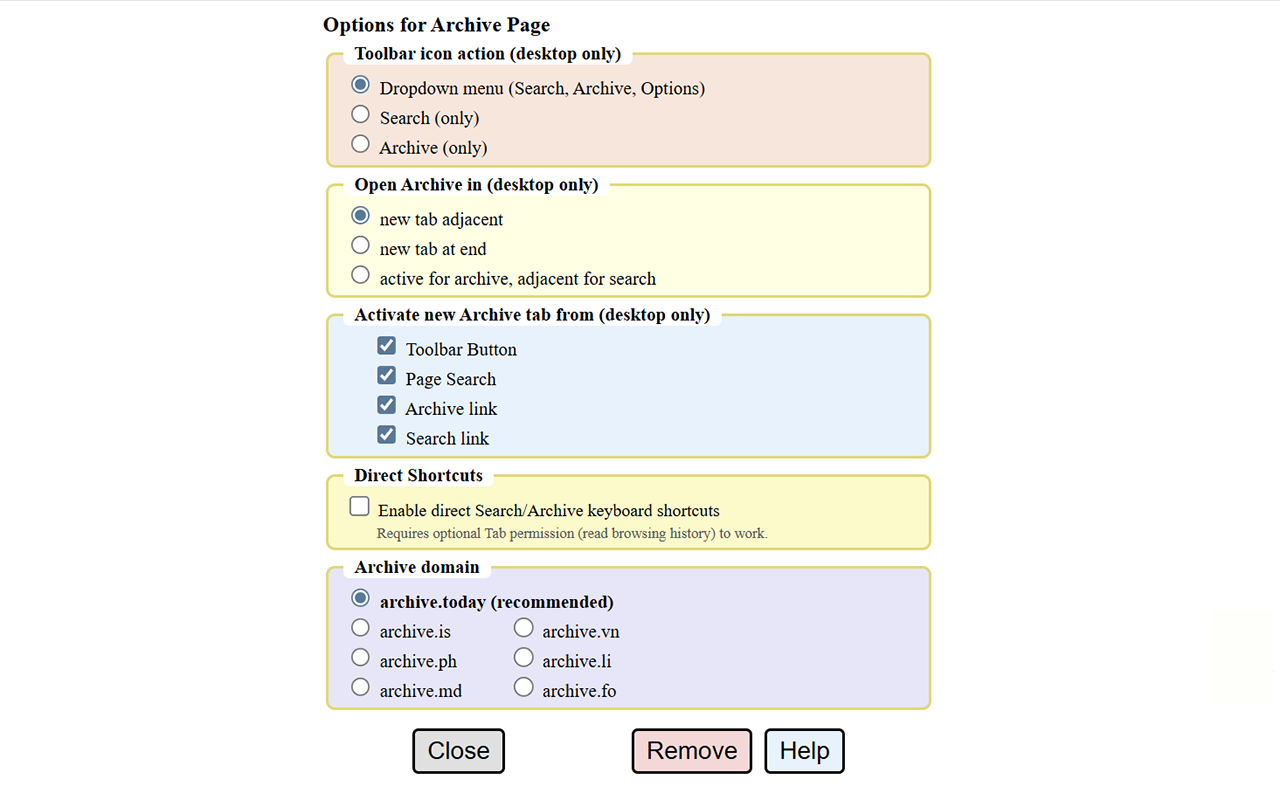
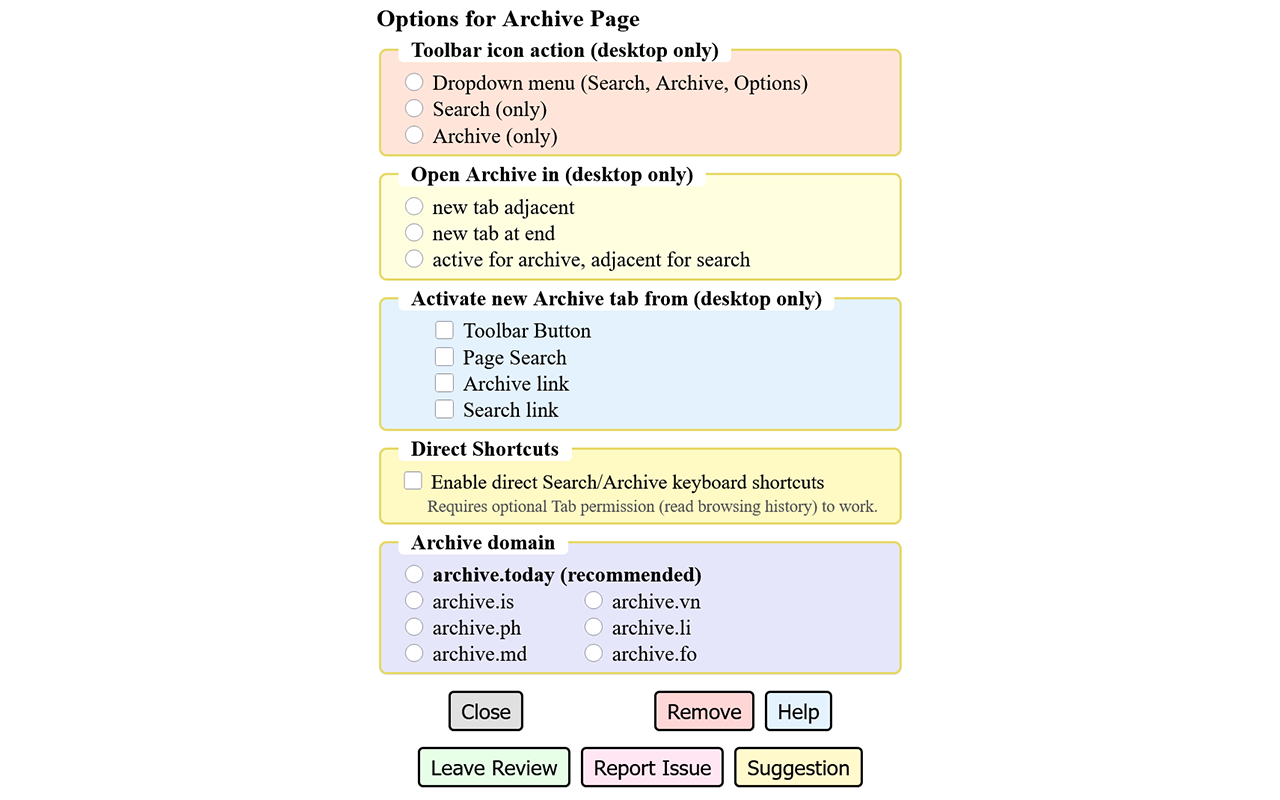
v1.6.3
What's New in 1.6.3:
* Fix rare menu race condition.
* Improve Options screen.

Changed region(s): [[0.25, 0.0, 0.75, 1.0]]

diff --git a/Chrome/options.html b/Chrome/options.html
@@ -15,6 +15,10 @@
             --bg-remove: #FFD6D6;
             --border-fieldset: #e6d96a;
             --border-button: #000;
+
+            --soft-green: #e6ffe6;
+            --soft-pink: #ffe6f2;
+            --soft-yellow: #fff9cc;
         }
 
         body {
@@ -121,6 +125,29 @@
             margin: 0 4px;
         }
 
+        #bReview {
+            background-color: var(--soft-green);
+        }
+
+        #bIssue {
+            background-color: var(--soft-pink);
+        }
+
+        #bSuggest {
+            background-color: var(--soft-yellow);
+        }
+
+        #bottomRow {
+            width: 342px;
+            margin: 12px auto 0;
+            gap: 8px;
+            flex-wrap: nowrap;
+        }
+
+        #feedbackRow {
+            width: 100%;
+        }
+
         @media (max-width: 600px) {
             body {
                 font-size: 0.95em;
@@ -196,11 +223,19 @@
             </div>
         </fieldset>
 
-        <div class="responsive-flex">
-            <button id="bClose" type="button">Close</button> <span id="status">&nbsp;</span>
+        <div class="responsive-flex" id="bottomRow">
+            <button id="bClose" type="button">Close</button>
+            <span id="status">&nbsp;</span>
             <button id="bRemove" type="button">Remove</button>
-            <span style="display: inline-block; width: 8px;"></span>
             <button id="bHelp" type="button">Help</button>
+        </div>
+
+        <div class="responsive-flex" id="feedbackRow">
+            <button id="bReview" type="button">Leave Review</button>
+            <span style="display: inline-block; width: 8px;"></span>
+            <button id="bIssue" type="button">Report Issue</button>
+            <span style="display: inline-block; width: 8px;"></span>
+            <button id="bSuggest" type="button">Suggestion</button>
         </div>
     </div>
     <script src="options.js"></script>

diff --git a/Chrome/dropdown.js b/Chrome/dropdown.js
@@ -4,22 +4,15 @@
     © 2026 John Navas, All Rights Reserved
 */
 
-document.addEventListener('DOMContentLoaded', () => {
-    // Send Search request to service worker
-    document.getElementById('mSearch').addEventListener('click', () => {
-        chrome.runtime.sendMessage({ action: "execSearch" });
-        window.close();
-    });
+document.getElementById('mSearch').addEventListener('click', () => {
+    chrome.runtime.sendMessage({ action: "execSearch" }, () => window.close());
+});
 
-    // Send Archive request to service worker
-    document.getElementById('mArchive').addEventListener('click', () => {
-        chrome.runtime.sendMessage({ action: "execArchive" });
-        window.close();
-    });
+document.getElementById('mArchive').addEventListener('click', () => {
+    chrome.runtime.sendMessage({ action: "execArchive" }, () => window.close());
+});
 
-    // Open the Options page directly
-    document.getElementById('mOptions').addEventListener('click', () => {
-        chrome.runtime.openOptionsPage();
-        window.close();
-    });
+document.getElementById('mOptions').addEventListener('click', () => {
+    chrome.runtime.openOptionsPage();
+    window.close();
 });

diff --git a/Chrome/service_worker.js b/Chrome/service_worker.js
@@ -48,7 +48,9 @@ async function doAction(uri, act, type) {
         const s = await getSet({ tabCtl: "adjacent", archiveTld: "today" });
         const u = getUrls(s.archiveTld)[type];
         const url = u + encodeURIComponent(uri);
-        const tabs = await chrome.tabs.query({ active: true, currentWindow: true });
+
+        // FIXED 1/3: lastFocusedWindow prevents transient popup-window failures
+        const tabs = await chrome.tabs.query({ active: true, lastFocusedWindow: true });
 
         if (!tabs[0]) return;
 
@@ -69,14 +71,12 @@ chrome.action.onClicked.addListener(async (tab) => {
 });
 
 // FIXED: Only show Welcome page on fresh install OR version ending in ".0"
-// Prevents up-boarding on browser updates or minor patch releases.
 chrome.runtime.onInstalled.addListener((details) => {
     const currentVersion = chrome.runtime.getManifest().version;
 
     if (details.reason === "install") {
         showWelcome();
     } else if (details.reason === "update") {
-        // Only show for major releases (e.g., "1.5.0")
         if (currentVersion.endsWith('.0')) {
             showWelcome();
         }
@@ -90,18 +90,26 @@ function showWelcome() {
     }, 200);
 }
 
-chrome.runtime.onMessage.addListener((m) => {
-    chrome.tabs.query({ active: true, currentWindow: true }, async (tabs) => {
+chrome.runtime.onMessage.addListener((m, sender, sendResponse) => {
+    // FIX: satisfy popup callback immediately to avoid warning
+    sendResponse();
+
+    // FIXED 2/3: lastFocusedWindow avoids empty tab arrays during popup teardown
+    chrome.tabs.query({ active: true, lastFocusedWindow: true }, async (tabs) => {
         if (!tabs[0]) return;
+
         if (m.action === "execSearch") {
             const s = await getSet({ cbSearchNew: true });
             doAction(tabs[0].url, s.cbSearchNew, "search");
         }
+
         if (m.action === "execArchive") {
             const s = await getSet({ cbArchiveNew: true });
             doAction(tabs[0].url, s.cbArchiveNew, "archive");
         }
     });
+
+    // No return true — port already closed cleanly.
 });
 
 chrome.storage.onChanged.addListener((c, area) => {
@@ -125,7 +133,8 @@ if (chrome.commands) {
             return;
         }
 
-        const tabs = await chrome.tabs.query({ active: true, currentWindow: true });
+        // FIXED 3/3: lastFocusedWindow for full environment parity
+        const tabs = await chrome.tabs.query({ active: true, lastFocusedWindow: true });
         if (!tabs[0] || !tabs[0].url) return;
 
         if (command === "mySearch") {
@@ -139,5 +148,4 @@ if (chrome.commands) {
     });
 }
 
-// FIXED: Full browser restart coverage
 chrome.runtime.onStartup.addListener(updateUI);

diff --git a/Chrome/welcome.html b/Chrome/welcome.html
@@ -171,8 +171,9 @@
         <p><strong>Pin extension icon to your browser toolbar for easy access.</strong></p>
 
         <div class="divider">
-            <h2>What's New in 1.6.1</h2>
-            <h3>✅Verify limited permissions update.</h3>
+            <h2>What's New in 1.6.3</h2>
+            <h3>✅ Fix rare race condition.</h3>
+            <h3>✅ Improve Options screen.</h3>
             <h3>Important Notes</h3>
             <ol class="tight-list">
                 <li><strong>Search context menu</strong> now only in Archive (only) option.</li>

diff --git a/Chrome/options.js b/Chrome/options.js
@@ -96,6 +96,10 @@ document.addEventListener('DOMContentLoaded', async () => {
         });
     }
 
+    document.getElementById('bReview').addEventListener('click', () => window.open('https://chromewebstore.google.com/detail/archive-page/gcaimhkfmliahedmeklebabdgagipbia/reviews', '_blank'));
+    document.getElementById('bIssue').addEventListener('click', () => window.open('https://github.com/JNavas2/Archive-Page/issues', '_blank'));
+    document.getElementById('bSuggest').addEventListener('click', () => window.open('https://github.com/JNavas2/Archive-Page/discussions', '_blank'));
+
     document.getElementById('bClose').addEventListener('click', () => {
         chrome.tabs.getCurrent(tab => {
             if (tab) chrome.tabs.remove(tab.id);